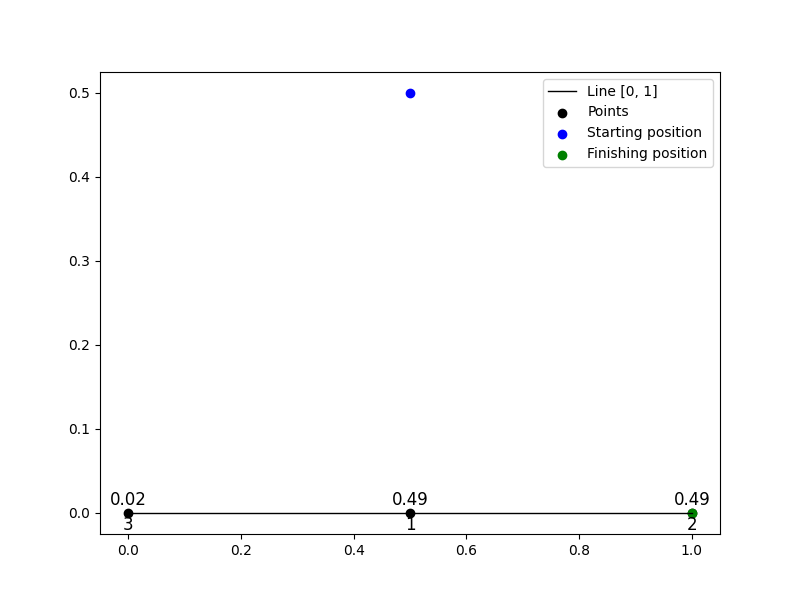
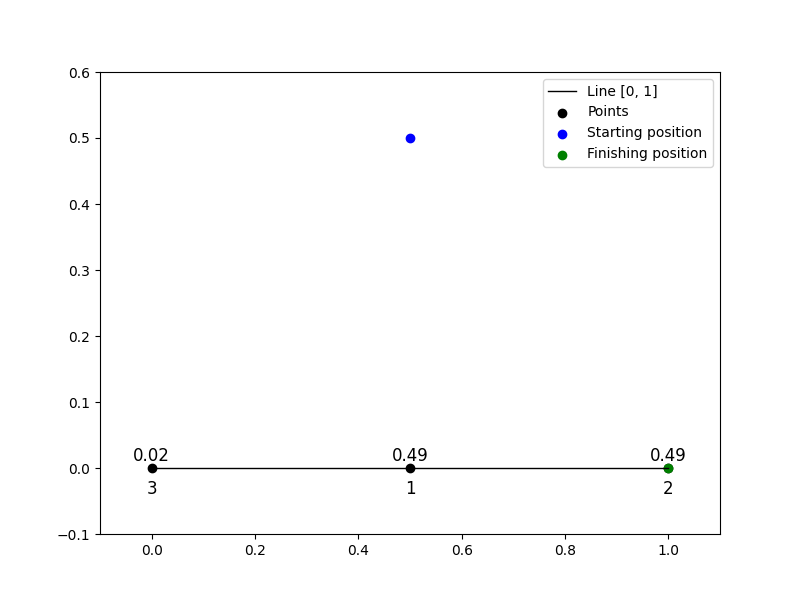
Minor updates

diff --git a/discrete_line/dp.py b/discrete_line/dp.py
@@ -127,8 +127,13 @@ def plot_solution(
         plt.text(points[i], 0.01, f"{prob:.2f}", fontsize=12, ha='center')
     for i, p in enumerate(path):
         if isinstance(p, int):
-            plt.text(points[p-1], -0.02, f"{i}", fontsize=12, ha='center')
+            plt.text(points[p-1], -0.04, f"{i}", fontsize=12, ha='center')
     plt.legend()
+
+    # set x and y axis limits
+    plt.xlim(-0.1, 1.1)
+    plt.ylim(-0.1, H[1] + 0.1)
+
     if savepath:
         plt.savefig(savepath)
     else:
